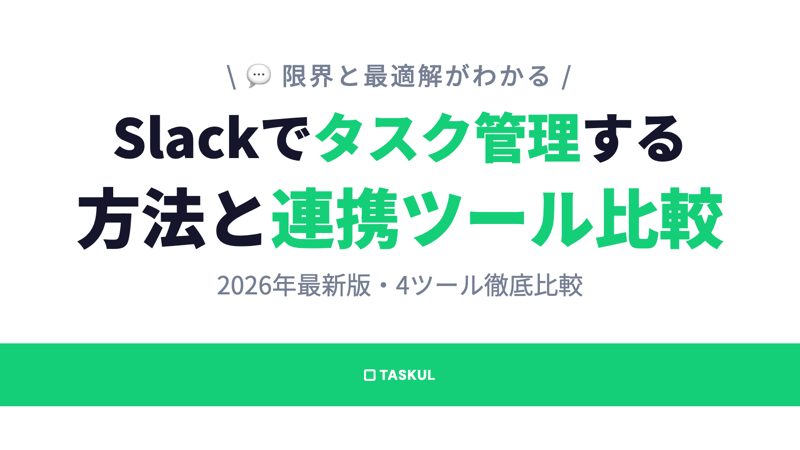
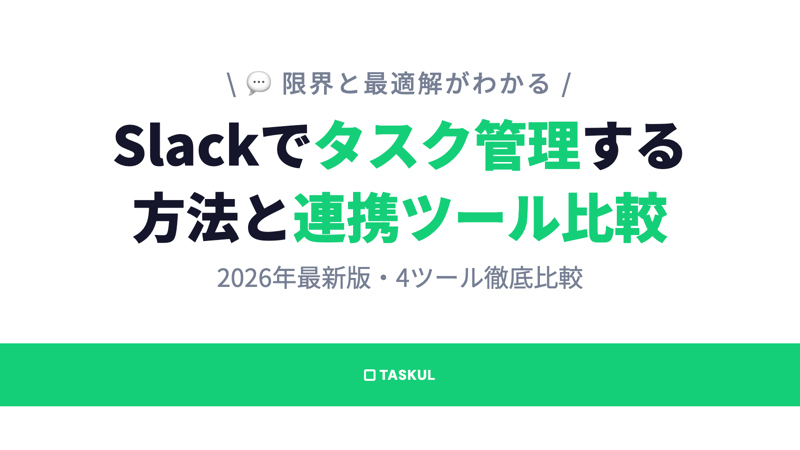
fix: Slack記事サムネのレイアウト崩れ修正＋フッターリンク修正
- サムネ: 2行目の文字サイズ拡大指定を削除しレイアウト崩れを修正
- フッター: KUROCO CREATIONとお問い合わせの正しいリンクに修正
  - KUROCO CREATION: https://kuroco-creation.jp/
  - お問い合わせ: https://lin.ee/RkS1N6k

diff --git a/src/components/Footer.tsx b/src/components/Footer.tsx
@@ -34,9 +34,9 @@ export default function Footer() {
               <Link href="/" className="hover:opacity-70 transition-opacity">コラム</Link>
             </div>
             <div className="flex flex-col gap-[18px]">
-              <a href="https://kurococreation.com/" target="_blank" rel="noopener noreferrer" className="font-['DM_Sans'] hover:opacity-70 transition-opacity">KUROCO CREATION</a>
+              <a href="https://kuroco-creation.jp/" target="_blank" rel="noopener noreferrer" className="font-['DM_Sans'] hover:opacity-70 transition-opacity">KUROCO CREATION</a>
               <a href="https://free-company.co.jp/" target="_blank" rel="noopener noreferrer" className="hover:opacity-70 transition-opacity">運営会社</a>
-              <a href="https://lin.ee/91VzSXM" target="_blank" rel="noopener noreferrer" className="hover:opacity-70 transition-opacity">お問い合わせ</a>
+              <a href="https://lin.ee/RkS1N6k" target="_blank" rel="noopener noreferrer" className="hover:opacity-70 transition-opacity">お問い合わせ</a>
             </div>
           </div>
         </div>
